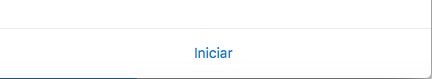
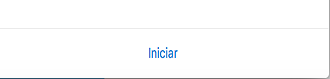
se cambiaron tamaños de imagenes de telegram

Changed region(s): [[0.4545, 0.6329, 0.5455, 0.7342]]

diff --git a/application/views/telegram.php b/application/views/telegram.php
@@ -40,39 +40,117 @@
               </div>
               <div class="modal-body">
 
-                <div class="row">
+                  <div class="row"><!--Instrucciones de instalación de telegram-->
                   <div class="container">
 
 
                   <div class="col-lg-4">
-                    <img src="<?php echo base_url()."/assets/images/bot_telegram.png";?>" alt="">
+                    <img src="<?php echo base_url()."/assets/images/playstore.jpg";?>" alt="">
                     <div class="overlay">
-                      <div class="text">Al hacer click sobre nuestro bot se abrirá la ventana de chat</div>
+                      <div class="text">Descargar Telegram</div>
                   </div>
                   </div>
                   <div class="col-lg-3">
-                    <strong>Busca el Bot con el nombre "semana13LAGBot"</strong>
+                    <strong>Abre Play Store, busca la aplicación Telegram en el buscador y haz clic en Instalar: </strong>
                   </div>
                   </div>
-                </div><!--row-->
-
-
+                </div><!--tercer row-->
 
                 <div class="row">
                   <div class="container">
 
-
                   <div class="col-lg-4">
-                    <img src="<?php echo base_url()."/assets/images/telegram_iniciar.png";?>" alt="">
+                    <img src="<?php echo base_url()."/assets/images/empezar.jpg";?>" alt="">
                     <div class="overlay">
-                      <div class="text">Hello World</div>
+                      <div class="text">Instalación de Telegram</div>
                   </div>
                   </div>
                   <div class="col-lg-3">
-                    <strong>Selecciona el bot y da click en la parte inferior en Iniciar</strong>
+                    <strong>Luego de la instalación, pulsa el botón Empieza a conversar: </strong>
                   </div>
                   </div>
-                </div><!--segundo row-->
+                </div><!--cuarto row-->
+
+              <div class="row">
+                <div class="container">
+
+                <div class="col-lg-4">
+                  <img src="<?php echo base_url()."/assets/images/ingresarnum.jpg";?>" alt="">
+                  <div class="overlay">
+                    <div class="text">Ingresa tu teléfono</div>
+                </div>
+                </div>
+                <div class="col-lg-3">
+                  <strong>En la ventana que aparece, ingresa tu número de teléfono: </strong>
+                </div>
+                </div>
+              </div><!--quinto row-->
+
+            <div class="row">
+              <div class="container">
+
+              <div class="col-lg-4">
+                <img src="<?php echo base_url()."/assets/images/codigo.jpg";?>" alt="">
+                <div class="overlay">
+                  <div class="text">Ingresa tu código de verificación</div>
+              </div>
+              </div>
+              <div class="col-lg-3">
+                <strong>Ingresa el código enviado a tu teléfono:  </strong>
+              </div>
+              </div>
+            </div><!--sexto row-->
+
+
+          <div class="row">
+            <div class="container">
+            <div class="col-lg-4">
+              <img src="<?php echo base_url()."/assets/images/nombre.jpg";?>" alt="">
+              <div class="overlay">
+                <div class="text">Ingresa tu nombre</div>
+            </div>
+            </div>
+            <div class="col-lg-3">
+              <strong>Ingresa tu nombre y si deseas también tu apellido:  </strong>
+            </div>
+            </div>
+          </div><!--septimo row-->
+
+          <div class="row">
+            <div class="container">
+
+
+            <div class="col-lg-4">
+              <img src="<?php echo base_url()."/assets/images/bot.jpg";?>" alt="">
+              <div class="overlay">
+                <div class="text">Al hacer click sobre nuestro bot se abrirá la ventana de chat</div>
+            </div>
+            </div>
+            <div class="col-lg-3">
+              <strong>Busca el Bot con el nombre "semana13LAGBot"</strong>
+            </div>
+            </div>
+          </div><!--row-->
+
+
+
+          <div class="row">
+            <div class="container">
+
+
+            <div class="col-lg-4">
+              <img src="<?php echo base_url()."/assets/images/ini.jpg";?>" alt="">
+              <div class="overlay">
+                <div class="text">Hello World</div>
+            </div>
+            </div>
+            <div class="col-lg-3">
+              <strong>Selecciona el bot y da click en la parte inferior en Iniciar</strong>
+            </div>
+            </div>
+          </div><!--segundo row-->
+
+
 
 
               </div>
